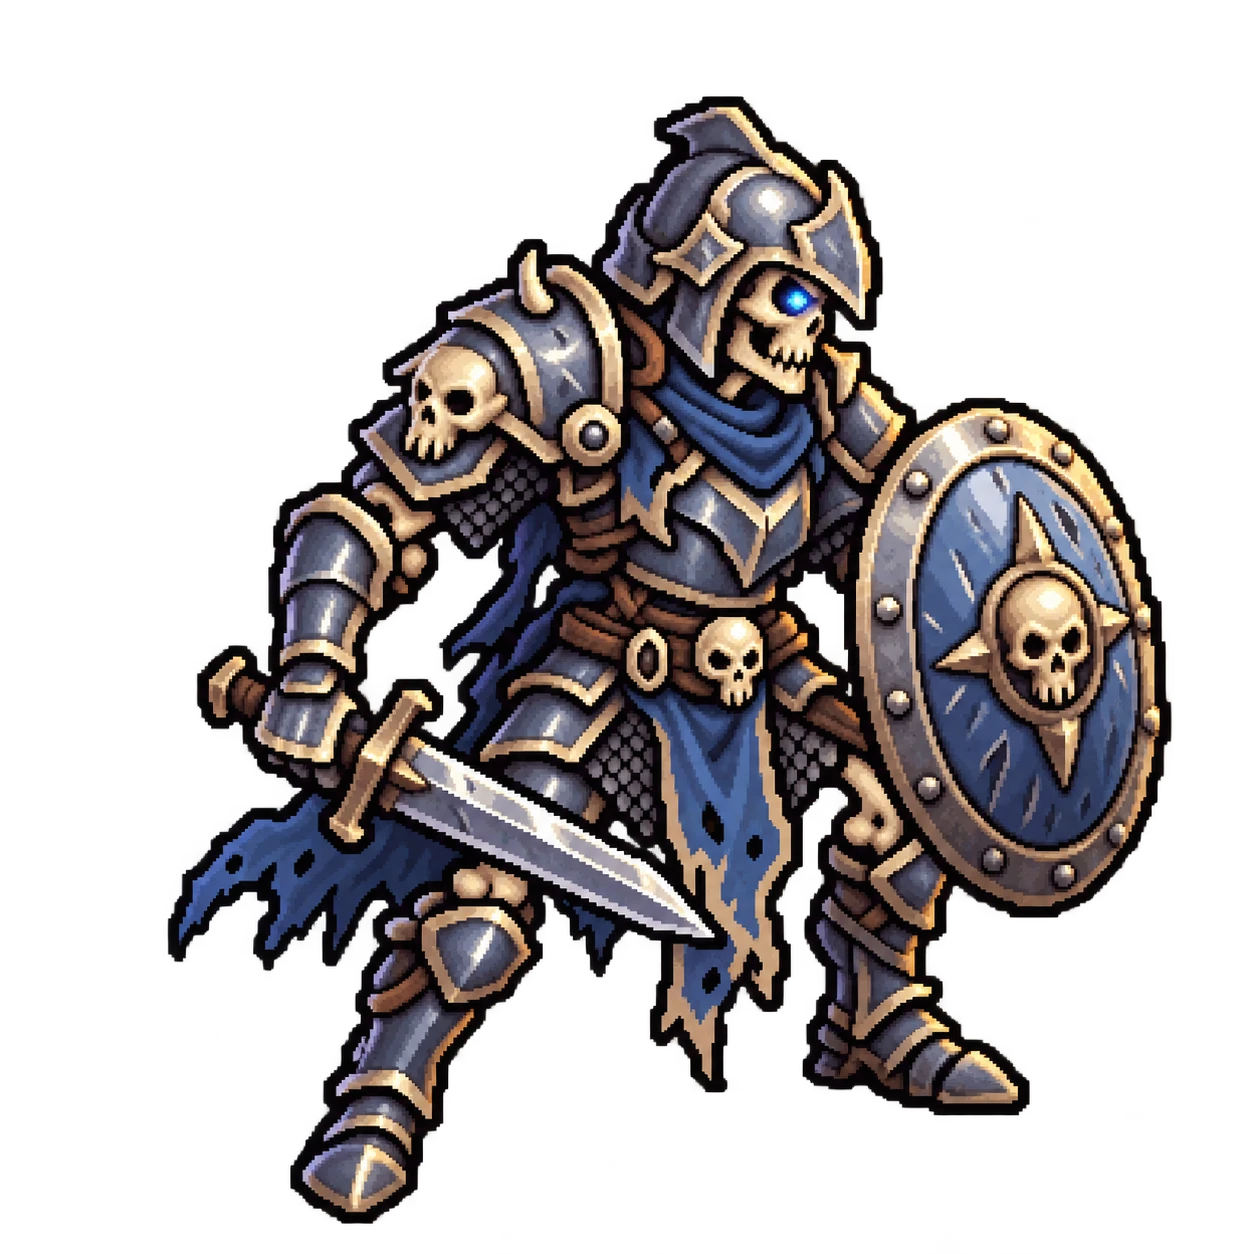
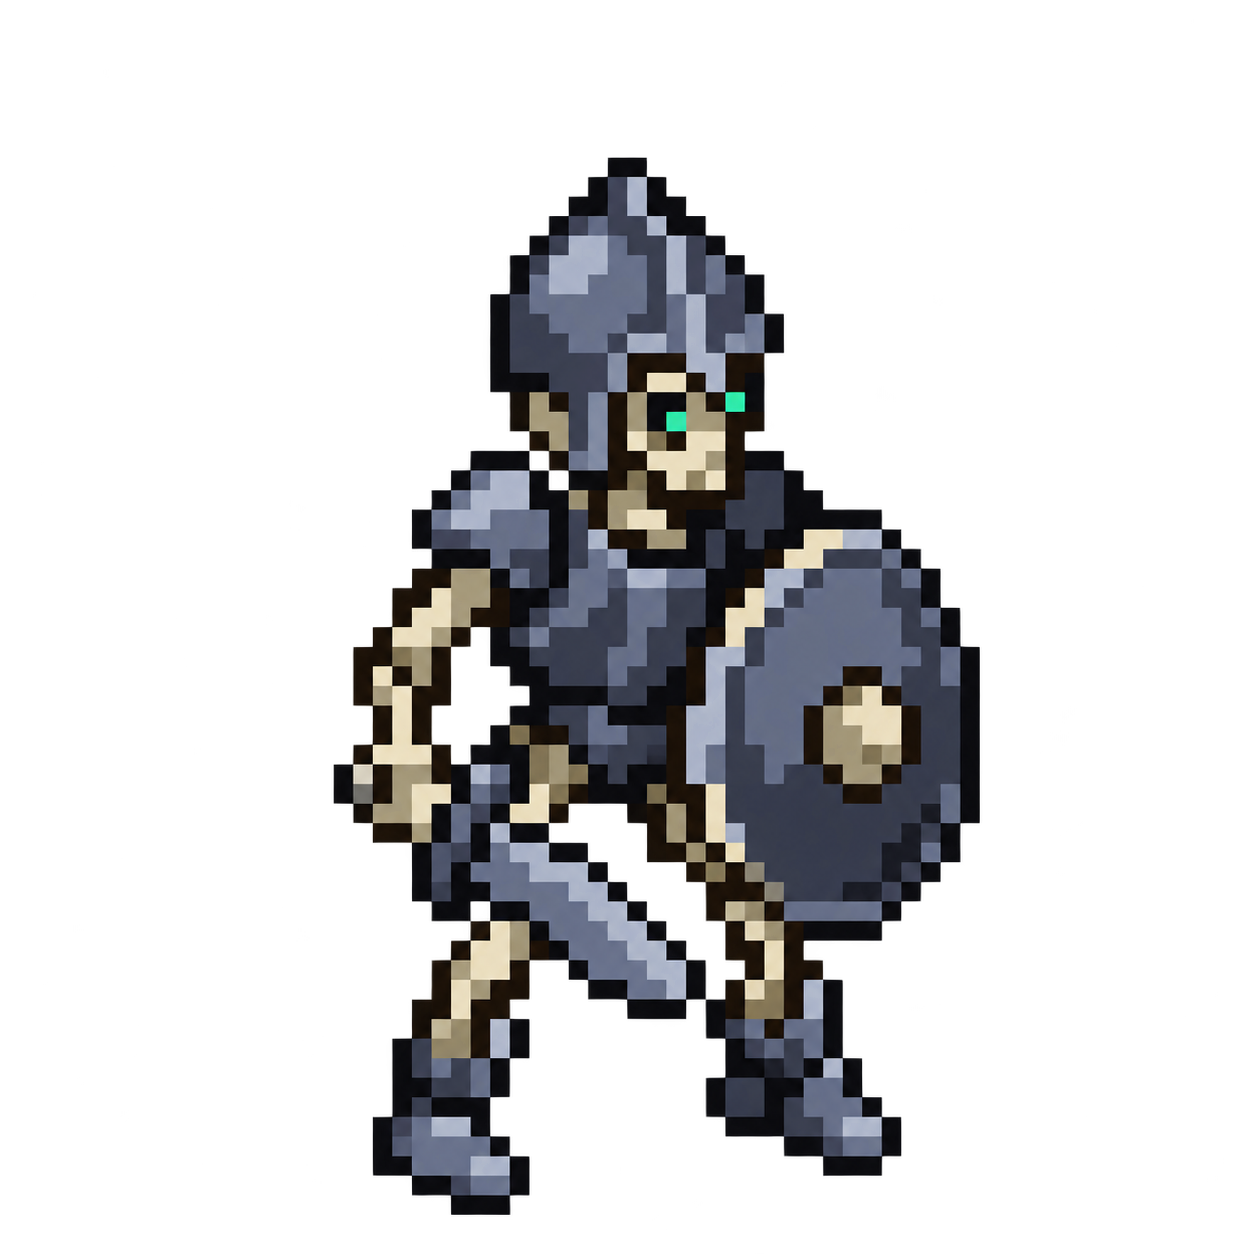
Skeleton Warrior anchor, and keep coloured accents such as eyes
The owner's warrior image converted to the 44 px grid (28x44 art px) with
the two soul-teal eyes restored by hand. The grid conversion now keeps
saturated accents: a strongly coloured material can win its art pixel even
when it is no brighter than its surroundings (teal eyes on bone), and
saturated accent ramps are never pruned as stray colours or merged away by
the cleanup (ACCENT_CHROMA). The necromancer converts identically.

Claude-Session: https://claude.ai/code/session_01FLPv2RqRe5qVsRWxUhur7z

diff --git a/tools/prepare_sprite.py b/tools/prepare_sprite.py
@@ -37,7 +37,8 @@ Grid mode (GDD 15.0 "Art pass (true pixel art)", docs/art/ART_BIBLE.md):
      its ramp's shades ("levels": the moody, dark AI renders otherwise sink to
      the darkest shade and into the floors), then every art pixel takes the
      nearest shade; glow shades only where the source is genuinely that bright.
-  6. Ramp pruning: ramps covering less than RAMP_MIN_SHARE of the sprite are
+  6. Ramp pruning (saturated accent ramps such as eyes are exempt, ACCENT_CHROMA):
+     ramps covering less than RAMP_MIN_SHARE of the sprite are
      dropped and their pixels re-snapped to the remaining ramps (stray hues from
      the AI's colour noise), except strongly contrasting accents (KEEP_DE).
   7. Cleanup ("readable features are 2+ art px; single pixels only for eyes,
@@ -199,6 +200,12 @@ EYE_DARK_L = 0.40
 # the owner's necromancer source). 0.60 sits between bone_shade (0.57) and bone_mid (0.74),
 # so only sockets set in lit bone, ivory, steel or skin are kept.
 SOCKET_LIGHT_L = 0.60
+# A coloured accent survives cleanup and ramp pruning: a pixel whose OKLab chroma is at least
+# this (a saturated colour: teal soul-fire eyes, a violet rune, a crimson gem) and whose ramp no
+# 8-neighbour shares. Eyes are only a pixel or two, so their ramp is always under
+# RAMP_MIN_SHARE and would otherwise be pruned or merged away (the Skeleton Warrior anchor
+# lost its teal eyes). Neutral greys, bone and ivory sit near 0.02-0.05, soul teal ~0.13.
+ACCENT_CHROMA = 0.09
 # Fraction (0-1) of the sprite's rows, from the bottom, used to find the body's centre column.
 BODY_ROWS = 0.6
 # Palette-snap error reported as a hotspot: OKLab a/b (hue and saturation) distance
@@ -363,8 +370,9 @@ def grid_cells(src: GridSource, scale: float, pal: Palette, allowed: list, metho
     "ramp" (default): every sub-sample (VOTE_SUBSAMPLES^2 per cell, box-filtered)
     darker than INK_L is linework / deep shadow (the nearest ink by hue); the
     rest is classified by material (ramp_of_colors()). A cell that is at least
-    INK_YIELD lit takes its majority material (a much brighter material with
-    SALIENT_SHARE of the cell wins instead: eyes, runes, glints) and the mean
+    INK_YIELD lit takes its majority material (a much brighter material, or a
+    much more saturated one (ACCENT_CHROMA), with SALIENT_SHARE of the cell
+    wins instead: eyes, runes, glints) and the mean
     lightness of that material's sub-samples; its shade is chosen later for
     the whole sprite (shade_cells()). A mostly dark cell takes its majority ink.
     "mode": the cell takes the palette colour most of its sub-samples snap to.
@@ -435,9 +443,16 @@ def grid_cells(src: GridSource, scale: float, pal: Palette, allowed: list, metho
         counts = Counter(ramps.tolist())
         best = counts.most_common(1)[0][0]  # Material holding the most lit area.
         best_l = ls[ramps == best].mean()
-        # A much brighter material with enough area wins the cell (eyes, runes, glints).
+        # A much brighter material with enough area wins the cell (eyes, runes, glints),
+        # and so does a strongly coloured one on a neutral material (teal eyes in a bone
+        # face are no brighter than the bone, only far more saturated: ACCENT_CHROMA).
+        lit_lab = sub_lab[cs][c_lit]  # OKLab of this cell's lit sub-samples.
+        best_c = float(np.hypot(lit_lab[ramps == best][:, 1], lit_lab[ramps == best][:, 2]).mean())  # Majority chroma.
         for r, n in counts.most_common():
-            if r != best and n >= SALIENT_SHARE * ramps.size and ls[ramps == r].mean() > best_l + SALIENT_DL:
+            if r == best or n < SALIENT_SHARE * ramps.size:
+                continue
+            r_c = float(np.hypot(lit_lab[ramps == r][:, 1], lit_lab[ramps == r][:, 2]).mean())  # Candidate chroma.
+            if ls[ramps == r].mean() > best_l + SALIENT_DL or (r_c >= ACCENT_CHROMA and r_c > best_c + ACCENT_CHROMA):
                 best, best_l = r, ls[ramps == r].mean()
                 break
         out.idx[y, x] = -2
@@ -543,13 +558,33 @@ def merge_flecks(idx: np.ndarray, pal: Palette) -> tuple:
     return out, changed
 
 
+def is_accent(idx: np.ndarray, y: int, x: int, pal: Palette) -> bool:
+    """True when pixel (y, x) is a coloured accent (see ACCENT_CHROMA): a saturated
+    colour whose ramp none of its opaque 8-neighbours uses (an eye, a gem, a rune)."""
+    c = idx[y, x]
+    if c < 0 or pal.group[c] == "ink":
+        return False
+    if float(np.hypot(pal.lab[c][1], pal.lab[c][2])) < ACCENT_CHROMA:
+        return False
+    h, w = idx.shape
+    for dy in (-1, 0, 1):
+        for dx in (-1, 0, 1):
+            if (dy or dx) and 0 <= y + dy < h and 0 <= x + dx < w:
+                v = idx[y + dy, x + dx]  # Neighbour colour index (-1 = transparent).
+                if v >= 0 and pal.ramp[v] == pal.ramp[c] and pal.group[v] != "ink":
+                    return False
+    return True
+
+
 def cleanup(idx: np.ndarray, pal: Palette) -> tuple:
     """Removes lone opaque pixels and merges single-pixel colour islands (a
     pixel whose colour no 4-neighbour shares) into their neighbours' majority
     colour, except glow pixels, bright accents in a dark setting (eyes in a
     hood, a lit rune: neighbours darker than EYE_DARK_L, the pixel SALIENT_DL
-    brighter) and dark accents in a light setting (a skull's eye sockets:
-    neighbours at least SOCKET_LIGHT_L, the pixel SALIENT_DL darker). Lone
+    brighter), dark accents in a light setting (a skull's eye sockets:
+    neighbours at least SOCKET_LIGHT_L, the pixel SALIENT_DL darker) and
+    coloured accents (is_accent(): a saturated pixel of a ramp no neighbour
+    uses, such as teal eyes in a bone face). Lone
     floating pixels are always removed. Returns (grid, pixels changed)."""
     h, w = idx.shape
     out = idx.copy()
@@ -577,7 +612,7 @@ def cleanup(idx: np.ndarray, pal: Palette) -> tuple:
             # and dark accents in a light setting (a skull's eye sockets).
             eye = around < EYE_DARK_L and pal.lab[c][0] - around > SALIENT_DL
             socket = around >= SOCKET_LIGHT_L and around - pal.lab[c][0] > SALIENT_DL
-            if pal.group[c] == "glow" or eye or socket:
+            if pal.group[c] == "glow" or eye or socket or is_accent(idx, y, x, pal):
                 continue
             out[y, x] = repl
             changed += 1
@@ -712,13 +747,20 @@ def convert(srcs: list, height: int, key: str, pal: Palette, args) -> tuple:
     idx_all = np.concatenate([c.idx.ravel() for c in cells])
     share = Counter(pal.ramp[i] for i in idx_all[idx_all >= 0].tolist() if pal.group[i] != "ink")
     total = max(1, sum(share.values()))
-    drop = sorted(r for r, n in share.items() if n < RAMP_MIN_SHARE * total) if args.prune else []
+    # A rare ramp is dropped unless it is a saturated accent colour (mean OKLab chroma of its
+    # pixels at least ACCENT_CHROMA): a unit's eyes or gem are always rare, never noise to prune.
+    chroma = {r: float(np.mean([np.hypot(pal.lab[i][1], pal.lab[i][2]) for i in idx_all[idx_all >= 0].tolist()
+                                if pal.ramp[i] == r and pal.group[i] != "ink"])) for r in share}  # Mean chroma per used ramp.
+    drop = sorted(r for r, n in share.items()
+                  if n < RAMP_MIN_SHARE * total and chroma[r] < ACCENT_CHROMA) if args.prune else []
     keep = [i for i in allowed if pal.ramp[i] not in drop or pal.group[i] == "ink"]
     grids, srcs_lab, snaps, cleaned = [], [], [], 0
     for c in cells:
         idx = c.idx
         snaps.append(idx.copy())
         for y, x in zip(*np.nonzero(np.isin(idx, [i for i in allowed if i not in keep]))):
+            if is_accent(c.idx, y, x, pal):
+                continue  # A coloured accent (an eye) keeps its pruned ramp.
             alt = pal.snap(c.src[y, x][None, :], keep, RAMP_CHROMA_WEIGHT)[0]
             # A strong accent survives (an eye in a ramp used nowhere else).
             if np.linalg.norm(pal.lab[alt] - pal.lab[idx[y, x]]) <= KEEP_DE:
